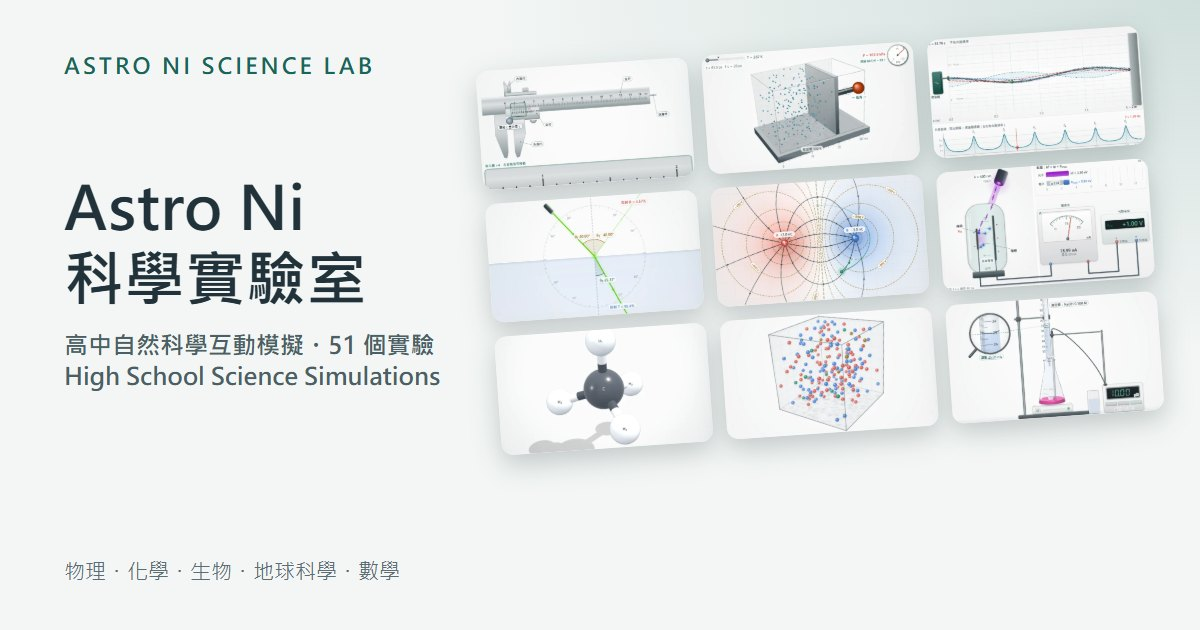
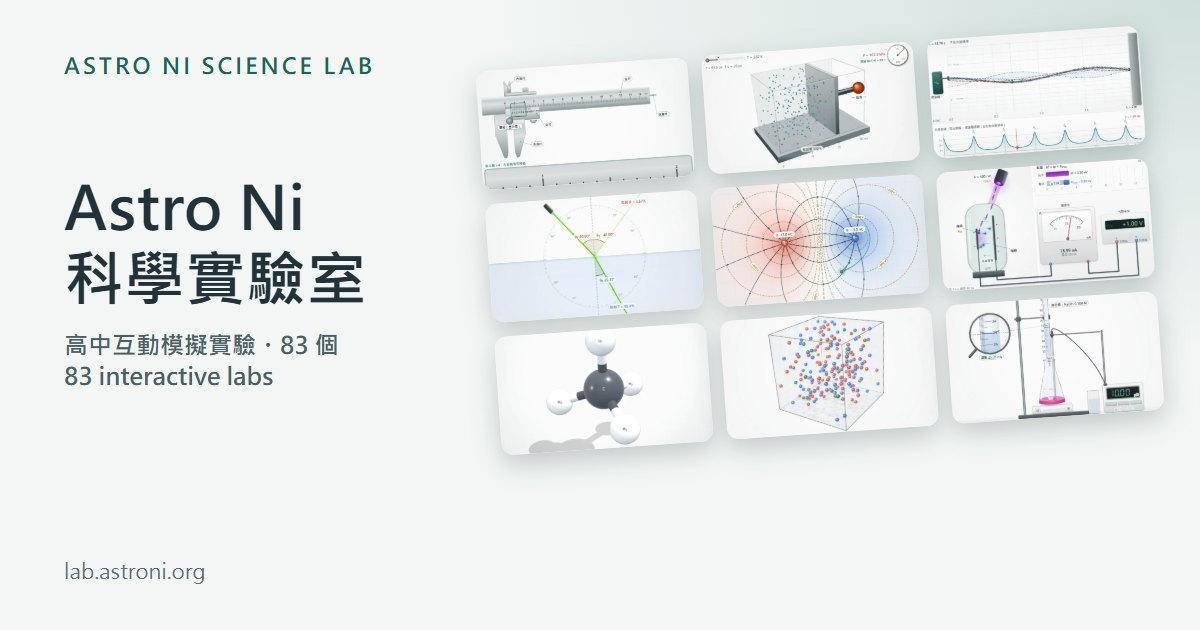
首頁標題改成站名「Astro Ni 科學實驗室」
科目變多，大標題不再列科目；上方小字改「高中互動模擬實驗」，
說明句改「親手驗證課本裡的定律與原理」；分享卡與 og 標題同步。

Changed region(s): [[0.0617, 0.5127, 0.37, 0.6333], [0.2158, 0.8746, 0.3392, 0.9349], [0.0617, 0.8746, 0.185, 0.9349]]

diff --git a/index.html b/index.html
@@ -2,19 +2,19 @@
 <html lang="zh-Hant">
 <head>
   <meta charset="utf-8">
-  <script src="js/settings.js?v=202611131109"></script>
+  <script src="js/settings.js?v=202611131206"></script>
   <meta name="viewport" content="width=device-width,initial-scale=1">
   <title data-en="Astro Ni Science Lab">Astro Ni 科學實驗室</title>
   <!-- SEO-BEGIN（tools/seo.cjs 自動產生，請勿手改） -->
-  <meta name="description" content="高中物理・化學・生物・地球科學・數學的互動模擬實驗室：依課程的分支與章節編排，調整參數、觀察動畫、完成任務收集星星，所有運算都在你的瀏覽器中完成。">
+  <meta name="description" content="給高中生的互動模擬實驗室，涵蓋物理、化學、生物、地球科學、數學、資訊與音樂：依課程的分支與章節編排，調整參數、觀察動畫、完成任務收集星星，所有運算都在你的瀏覽器中完成。">
   <link rel="alternate" hreflang="zh-Hant" href="https://lab.astroni.org/">
   <link rel="alternate" hreflang="zh-Hans" href="https://lab.astroni.org/?lang=zh-Hans">
   <link rel="alternate" hreflang="en" href="https://lab.astroni.org/?lang=en">
   <link rel="alternate" hreflang="x-default" href="https://lab.astroni.org/">
   <meta property="og:type" content="website">
   <meta property="og:site_name" content="Astro Ni 科學實驗室">
-  <meta property="og:title" content="Astro Ni 科學實驗室｜高中物理・化學・生物・地球科學・數學互動模擬">
-  <meta property="og:description" content="高中物理・化學・生物・地球科學・數學的互動模擬實驗室：依課程的分支與章節編排，調整參數、觀察動畫、完成任務收集星星，所有運算都在你的瀏覽器中完成。">
+  <meta property="og:title" content="Astro Ni 科學實驗室｜高中互動模擬實驗">
+  <meta property="og:description" content="給高中生的互動模擬實驗室，涵蓋物理、化學、生物、地球科學、數學、資訊與音樂：依課程的分支與章節編排，調整參數、觀察動畫、完成任務收集星星，所有運算都在你的瀏覽器中完成。">
   <meta property="og:url" content="https://lab.astroni.org/">
   <meta property="og:image" content="https://lab.astroni.org/img/og/index.jpg">
   <meta property="og:image:width" content="1200">
@@ -24,19 +24,20 @@
   <meta property="og:locale:alternate" content="zh_CN">
   <meta property="og:locale:alternate" content="en_US">
   <meta name="twitter:card" content="summary_large_image">
-  <script type="application/ld+json">{"@context":"https://schema.org","@type":"WebSite","name":"Astro Ni 科學實驗室","alternateName":"Astro Ni Science Lab","url":"https://lab.astroni.org/","description":"高中物理・化學・生物・地球科學・數學的互動模擬實驗室：依課程的分支與章節編排，調整參數、觀察動畫、完成任務收集星星，所有運算都在你的瀏覽器中完成。","inLanguage":["zh-Hant","zh-Hans","en"],"license":"https://creativecommons.org/licenses/by-nc/4.0/","author":{"@type":"Person","name":"Astro Ni"},"hasPart":[{"@type":"LearningResource","name":"測量與不確定度（游標尺與螺旋測微器）","alternateName":"Measurement and Uncertainty: Vernier Caliper and Micrometer","url":"https://lab.astroni.org/measurement.html"},{"@type":"LearningResource","name":"自由落體與斜面上的運動","alternateName":"Free Fall and Motion on an Incline","url":"https://lab.astroni.org/free-fall.html"},{"@type":"LearningResource","name":"拋體運動","alternateName":"Projectile Motion","url":"https://lab.astroni.org/projectile.html"},{"@type":"LearningResource","name":"牛頓第二定律（力學車實驗）","alternateName":"Newton's Second Law: The Dynamics Cart","url":"https://lab.astroni.org/newton-second.html"},{"@type":"LearningResource","name":"斜面與摩擦力","alternateName":"Inclines and Friction","url":"https://lab.astroni.org/incline-friction.html"},{"@type":"LearningResource","name":"連體運動與阿特午機","alternateName":"Connected Bodies and the Atwood Machine","url":"https://lab.astroni.org/atwood.html"},{"@type":"LearningResource","name":"電梯中的視重（超重與失重）","alternateName":"Apparent Weight in an Elevator","url":"https://lab.astroni.org/elevator.html"},{"@type":"LearningResource","name":"等速圓周運動","alternateName":"Uniform Circular Motion","url":"https://lab.astroni.org/circular-motion.html"},{"@type":"LearningResource","name":"彈簧振子與單擺","alternateName":"Spring Oscillator and Pendulum","url":"https://lab.astroni.org/oscillation.html"},{"@type":"LearningResource","name":"行星軌道與克卜勒定律","alternateName":"Planetary Orbits and Kepler's Laws","url":"https://lab.astroni.org/kepler.html"},{"@type":"LearningResource","name":"力矩與靜力平衡","alternateName":"Torque and Static Equilibrium","url":"https://lab.astroni.org/torque-balance.html"},{"@type":"LearningResource","name":"角動量守恆","alternateName":"Conservation of Angular Momentum","url":"https://lab.astroni.org/angular-momentum.html"},{"@type":"LearningResource","name":"雲霄飛車與力學能守恆","alternateName":"Roller Coaster and Conservation of Mechanical Energy","url":"https://lab.astroni.org/energy-coaster.html"},{"@type":"LearningResource","name":"一維碰撞","alternateName":"Collisions in One Dimension","url":"https://lab.astroni.org/collision.html"},{"@type":"LearningResource","name":"理想氣體分子模擬","alternateName":"Ideal Gas Molecules","url":"https://lab.astroni.org/ideal-gas.html"},{"@type":"LearningResource","name":"比熱與熱平衡","alternateName":"Specific Heat and Thermal Equilibrium","url":"https://lab.astroni.org/specific-heat.html"},{"@type":"LearningResource","name":"熱機循環與熱力學第一定律","alternateName":"Heat Engines and the First Law of Thermodynamics","url":"https://lab.astroni.org/heat-engine.html"},{"@type":"LearningResource","name":"繩波的反射與駐波","alternateName":"Reflection of Waves on a String and Standing Waves","url":"https://lab.astroni.org/standing-waves.html"},{"@type":"LearningResource","name":"水波槽實驗","alternateName":"Ripple Tank","url":"https://lab.astroni.org/ripple-tank.html"},{"@type":"LearningResource","name":"都卜勒效應","alternateName":"The Doppler Effect","url":"https://lab.astroni.org/doppler.html"},{"@type":"LearningResource","name":"氣柱的共鳴（共鳴管測聲速）","alternateName":"Resonance in an Air Column: Measuring the Speed of Sound","url":"https://lab.astroni.org/resonance-tube.html"},{"@type":"LearningResource","name":"折射與全反射","alternateName":"Refraction and Total Internal Reflection","url":"https://lab.astroni.org/refraction.html"},{"@type":"LearningResource","name":"透鏡與面鏡成像","alternateName":"Images in Lenses and Mirrors","url":"https://lab.astroni.org/lens-mirror.html"},{"@type":"LearningResource","name":"折射率的測定（插針法）","alternateName":"Measuring the Refractive Index (Pin Method)","url":"https://lab.astroni.org/refractive-index.html"},{"@type":"LearningResource","name":"薄透鏡的成像","alternateName":"Thin Lens Imaging","url":"https://lab.astroni.org/thin-lens.html"},{"@type":"LearningResource","name":"雙狹縫干涉與單狹縫繞射","alternateName":"Double-Slit Interference and Single-Slit Diffraction","url":"https://lab.astroni.org/slit-interference.html"},{"@type":"LearningResource","name":"薄膜干涉（肥皂膜、空氣劈與牛頓環）","alternateName":"Thin-Film Interference: Soap Films, Air Wedges and Newton's Rings","url":"https://lab.astroni.org/thin-film.html"},{"@type":"LearningResource","name":"電場與等位線","alternateName":"Electric Fields and Equipotentials","url":"https://lab.astroni.org/electric-field.html"},{"@type":"LearningResource","name":"平行板電容器","alternateName":"Parallel-Plate Capacitor","url":"https://lab.astroni.org/capacitor.html"},{"@type":"LearningResource","name":"等位線與電場（導電紙實驗）","alternateName":"Equipotential Lines and the Electric Field (Conducting Paper)","url":"https://lab.astroni.org/equipotential.html"},{"@type":"LearningResource","name":"電流的磁效應：直導線、線圈與螺線管的磁場","alternateName":"Magnetic Effects of Currents: Wires, Coils and Solenoids","url":"https://lab.astroni.org/current-magnetic-field.html"},{"@type":"LearningResource","name":"帶電粒子在磁場中運動","alternateName":"Charged Particles in a Magnetic Field","url":"https://lab.astroni.org/magnetic-particle.html"},{"@type":"LearningResource","name":"電流天平","alternateName":"Current Balance","url":"https://lab.astroni.org/current-balance.html"},{"@type":"LearningResource","name":"法拉第定律與冷次定律","alternateName":"Faraday's Law and Lenz's Law","url":"https://lab.astroni.org/faraday.html"},{"@type":"LearningResource","name":"認識電磁波（微波實驗）","alternateName":"Meeting Electromagnetic Waves: Microwave Experiments","url":"https://lab.astroni.org/microwave.html"},{"@type":"LearningResource","name":"直流電路","alternateName":"DC Circuits","url":"https://lab.astroni.org/dc-circuit.html"},{"@type":"LearningResource","name":"歐姆定律與電路（電阻的測量）","alternateName":"Ohm’s Law and Circuits: Measuring Resistance","url":"https://lab.astroni.org/ohms-law.html"},{"@type":"LearningResource","name":"光電效應","alternateName":"The Photoelectric Effect","url":"https://lab.astroni.org/photoelectric.html"},{"@type":"LearningResource","name":"電子的荷質比","alternateName":"Charge-to-Mass Ratio of the Electron","url":"https://lab.astroni.org/e-over-m.html"},{"@type":"LearningResource","name":"氫原子能階與光譜","alternateName":"Hydrogen Energy Levels and Spectra","url":"https://lab.astroni.org/hydrogen-spectrum.html"},{"@type":"LearningResource","name":"放射性衰變與半衰期","alternateName":"Radioactive Decay and Half-Life","url":"https://lab.astroni.org/radioactive-decay.html"},{"@type":"LearningResource","name":"分子的形狀：電子對互相推開（VSEPR）","alternateName":"Molecular Shapes: Electron Pairs Push Apart (VSEPR)","url":"https://lab.astroni.org/molecular-shapes.html"},{"@type":"LearningResource","name":"反應速率與碰撞學說","alternateName":"Reaction Rates and Collision Theory","url":"https://lab.astroni.org/reaction-rate.html"},{"@type":"LearningResource","name":"化學平衡與勒沙特列原理","alternateName":"Chemical Equilibrium and Le Chatelier's Principle","url":"https://lab.astroni.org/chemical-equilibrium.html"},{"@type":"LearningResource","name":"酸鹼滴定","alternateName":"Acid–Base Titration","url":"https://lab.astroni.org/acid-base-titration.html"},{"@type":"LearningResource","name":"化學電池與電解","alternateName":"Electrochemical Cells and Electrolysis","url":"https://lab.astroni.org/electrochemistry.html"},{"@type":"LearningResource","name":"擴散與滲透：布朗運動、半透膜與細胞的漲縮","alternateName":"Diffusion and Osmosis: Brownian Motion, Membranes and Cells","url":"https://lab.astroni.org/diffusion-osmosis.html"},{"@type":"LearningResource","name":"孟德爾遺傳：豌豆雜交與卡方檢定","alternateName":"Mendelian Inheritance: Pea Crosses and the Chi-Square Test","url":"https://lab.astroni.org/mendelian-inheritance.html"},{"@type":"LearningResource","name":"神經的動作電位：Hodgkin–Huxley 模型與神經衝動的傳導","alternateName":"The Action Potential: The Hodgkin–Huxley Model and Nerve Conduction","url":"https://lab.astroni.org/action-potential.html"},{"@type":"LearningResource","name":"族群成長：指數、邏輯斯與掠食者–獵物","alternateName":"Population Growth: Exponential, Logistic, Predator and Prey","url":"https://lab.astroni.org/population-growth.html"},{"@type":"LearningResource","name":"哈溫平衡、遺傳漂變與天擇","alternateName":"Hardy–Weinberg, Genetic Drift and Natural Selection","url":"https://lab.astroni.org/hardy-weinberg.html"},{"@type":"LearningResource","name":"月相與日月食","alternateName":"Moon Phases and Eclipses","url":"https://lab.astroni.org/moon-phases.html"},{"@type":"LearningResource","name":"四季與太陽軌跡","alternateName":"Seasons and the Sun's Path","url":"https://lab.astroni.org/seasons.html"},{"@type":"LearningResource","name":"地震波與震央定位","alternateName":"Seismic Waves and Locating an Epicenter","url":"https://lab.astroni.org/earthquake.html"},{"@type":"LearningResource","name":"絕熱冷卻與雲的形成","alternateName":"Adiabatic Cooling and Cloud Formation","url":"https://lab.astroni.org/cloud-formation.html"},{"@type":"LearningResource","name":"科氏力與大氣的運動","alternateName":"The Coriolis Effect and Moving Air","url":"https://lab.astroni.org/coriolis.html"},{"@type":"LearningResource","name":"溫室效應與地球的能量平衡","alternateName":"The Greenhouse Effect and Earth’s Energy Balance","url":"https://lab.astroni.org/greenhouse.html"},{"@type":"LearningResource","name":"潮汐：月球、太陽與兩個潮汐隆起","alternateName":"Tides: The Moon, the Sun and the Two Tidal Bulges","url":"https://lab.astroni.org/tides.html"},{"@type":"LearningResource","name":"三角函數：單位圓與正弦波","alternateName":"Trigonometric Functions: The Unit Circle and Sine Waves","url":"https://lab.astroni.org/trig-functions.html"},{"@type":"LearningResource","name":"圓錐曲線：用平面切圓錐","alternateName":"Conic Sections: Slicing a Cone","url":"https://lab.astroni.org/conic-sections.html"},{"@type":"LearningResource","name":"空間向量：內積、外積與平面","alternateName":"Space Vectors: Dot Product, Cross Product and Planes","url":"https://lab.astroni.org/space-vectors.html"},{"@type":"LearningResource","name":"高爾頓板與二項分布","alternateName":"Galton Board and the Binomial Distribution","url":"https://lab.astroni.org/galton-board.html"},{"@type":"LearningResource","name":"導數與切線","alternateName":"Derivatives and Tangent Lines","url":"https://lab.astroni.org/derivative.html"},{"@type":"LearningResource","name":"二進位與進位制","alternateName":"Binary Numbers and Number Bases","url":"https://lab.astroni.org/binary-numbers.html"},{"@type":"LearningResource","name":"圖片數位化：取樣、解析度與色深","alternateName":"Digitizing Images: Sampling, Resolution and Color Depth","url":"https://lab.astroni.org/image-digitization.html"},{"@type":"LearningResource","name":"資料壓縮：遊程編碼與霍夫曼編碼","alternateName":"Data Compression: Run-Length and Huffman Coding","url":"https://lab.astroni.org/data-compression.html"},{"@type":"LearningResource","name":"線性搜尋與二分搜尋","alternateName":"Linear Search and Binary Search","url":"https://lab.astroni.org/binary-search.html"},{"@type":"LearningResource","name":"排序演算法比較","alternateName":"Sorting Algorithms Compared","url":"https://lab.astroni.org/sorting.html"},{"@type":"LearningResource","name":"最短路徑：Dijkstra 演算法","alternateName":"Shortest Paths: Dijkstra’s Algorithm","url":"https://lab.astroni.org/shortest-path.html"},{"@type":"LearningResource","name":"邏輯閘與加法器","alternateName":"Logic Gates and Adders","url":"https://lab.astroni.org/logic-gates.html"},{"@type":"LearningResource","name":"網路封包與路由","alternateName":"Packets and Routing","url":"https://lab.astroni.org/packet-routing.html"},{"@type":"LearningResource","name":"加密：從凱撒密碼到公鑰","alternateName":"Encryption: From Caesar to Public Keys","url":"https://lab.astroni.org/cryptography.html"},{"@type":"LearningResource","name":"感知器：一條線分兩類","alternateName":"The Perceptron: One Line, Two Classes","url":"https://lab.astroni.org/perceptron.html"},{"@type":"LearningResource","name":"音高與頻率：從振動到音名","alternateName":"Pitch and Frequency: From Vibration to Note Names","url":"https://lab.astroni.org/pitch-frequency.html"},{"@type":"LearningResource","name":"泛音列與音色","alternateName":"The Harmonic Series and Timbre","url":"https://lab.astroni.org/harmonic-series.html"},{"@type":"LearningResource","name":"五度相生、純律與十二平均律","alternateName":"Pythagorean, Just and Equal Temperament","url":"https://lab.astroni.org/temperament.html"},{"@type":"LearningResource","name":"音階與調式","alternateName":"Scales and Modes","url":"https://lab.astroni.org/scales-modes.html"},{"@type":"LearningResource","name":"協和與不協和","alternateName":"Consonance and Dissonance","url":"https://lab.astroni.org/consonance.html"},{"@type":"LearningResource","name":"和弦的頻率比","alternateName":"Chords and Frequency Ratios","url":"https://lab.astroni.org/chords.html"},{"@type":"LearningResource","name":"弦樂器：弦長、張力與品格","alternateName":"String Instruments: Length, Tension and Frets","url":"https://lab.astroni.org/string-instrument.html"},{"@type":"LearningResource","name":"管樂器：直笛、長笛與單簧管","alternateName":"Wind Instruments: Recorder, Flute and Clarinet","url":"https://lab.astroni.org/wind-instrument.html"},{"@type":"LearningResource","name":"鼓與板的振動模態","alternateName":"Vibration Modes of Drums and Plates","url":"https://lab.astroni.org/drum-modes.html"},{"@type":"LearningResource","name":"多重節奏與歐幾里得節奏","alternateName":"Polyrhythms and Euclidean Rhythms","url":"https://lab.astroni.org/polyrhythm.html"}]}</script>
+  <script type="application/ld+json">{"@context":"https://schema.org","@type":"WebSite","name":"Astro Ni 科學實驗室","alternateName":"Astro Ni Science Lab","url":"https://lab.astroni.org/","description":"給高中生的互動模擬實驗室，涵蓋物理、化學、生物、地球科學、數學、資訊與音樂：依課程的分支與章節編排，調整參數、觀察動畫、完成任務收集星星，所有運算都在你的瀏覽器中完成。","inLanguage":["zh-Hant","zh-Hans","en"],"license":"https://creativecommons.org/licenses/by-nc/4.0/","author":{"@type":"Person","name":"Astro Ni"},"hasPart":[{"@type":"LearningResource","name":"測量與不確定度（游標尺與螺旋測微器）","alternateName":"Measurement and Uncertainty: Vernier Caliper and Micrometer","url":"https://lab.astroni.org/measurement.html"},{"@type":"LearningResource","name":"自由落體與斜面上的運動","alternateName":"Free Fall and Motion on an Incline","url":"https://lab.astroni.org/free-fall.html"},{"@type":"LearningResource","name":"拋體運動","alternateName":"Projectile Motion","url":"https://lab.astroni.org/projectile.html"},{"@type":"LearningResource","name":"牛頓第二定律（力學車實驗）","alternateName":"Newton's Second Law: The Dynamics Cart","url":"https://lab.astroni.org/newton-second.html"},{"@type":"LearningResource","name":"斜面與摩擦力","alternateName":"Inclines and Friction","url":"https://lab.astroni.org/incline-friction.html"},{"@type":"LearningResource","name":"連體運動與阿特午機","alternateName":"Connected Bodies and the Atwood Machine","url":"https://lab.astroni.org/atwood.html"},{"@type":"LearningResource","name":"電梯中的視重（超重與失重）","alternateName":"Apparent Weight in an Elevator","url":"https://lab.astroni.org/elevator.html"},{"@type":"LearningResource","name":"等速圓周運動","alternateName":"Uniform Circular Motion","url":"https://lab.astroni.org/circular-motion.html"},{"@type":"LearningResource","name":"彈簧振子與單擺","alternateName":"Spring Oscillator and Pendulum","url":"https://lab.astroni.org/oscillation.html"},{"@type":"LearningResource","name":"行星軌道與克卜勒定律","alternateName":"Planetary Orbits and Kepler's Laws","url":"https://lab.astroni.org/kepler.html"},{"@type":"LearningResource","name":"力矩與靜力平衡","alternateName":"Torque and Static Equilibrium","url":"https://lab.astroni.org/torque-balance.html"},{"@type":"LearningResource","name":"角動量守恆","alternateName":"Conservation of Angular Momentum","url":"https://lab.astroni.org/angular-momentum.html"},{"@type":"LearningResource","name":"雲霄飛車與力學能守恆","alternateName":"Roller Coaster and Conservation of Mechanical Energy","url":"https://lab.astroni.org/energy-coaster.html"},{"@type":"LearningResource","name":"一維碰撞","alternateName":"Collisions in One Dimension","url":"https://lab.astroni.org/collision.html"},{"@type":"LearningResource","name":"理想氣體分子模擬","alternateName":"Ideal Gas Molecules","url":"https://lab.astroni.org/ideal-gas.html"},{"@type":"LearningResource","name":"比熱與熱平衡","alternateName":"Specific Heat and Thermal Equilibrium","url":"https://lab.astroni.org/specific-heat.html"},{"@type":"LearningResource","name":"熱機循環與熱力學第一定律","alternateName":"Heat Engines and the First Law of Thermodynamics","url":"https://lab.astroni.org/heat-engine.html"},{"@type":"LearningResource","name":"繩波的反射與駐波","alternateName":"Reflection of Waves on a String and Standing Waves","url":"https://lab.astroni.org/standing-waves.html"},{"@type":"LearningResource","name":"水波槽實驗","alternateName":"Ripple Tank","url":"https://lab.astroni.org/ripple-tank.html"},{"@type":"LearningResource","name":"都卜勒效應","alternateName":"The Doppler Effect","url":"https://lab.astroni.org/doppler.html"},{"@type":"LearningResource","name":"氣柱的共鳴（共鳴管測聲速）","alternateName":"Resonance in an Air Column: Measuring the Speed of Sound","url":"https://lab.astroni.org/resonance-tube.html"},{"@type":"LearningResource","name":"折射與全反射","alternateName":"Refraction and Total Internal Reflection","url":"https://lab.astroni.org/refraction.html"},{"@type":"LearningResource","name":"透鏡與面鏡成像","alternateName":"Images in Lenses and Mirrors","url":"https://lab.astroni.org/lens-mirror.html"},{"@type":"LearningResource","name":"折射率的測定（插針法）","alternateName":"Measuring the Refractive Index (Pin Method)","url":"https://lab.astroni.org/refractive-index.html"},{"@type":"LearningResource","name":"薄透鏡的成像","alternateName":"Thin Lens Imaging","url":"https://lab.astroni.org/thin-lens.html"},{"@type":"LearningResource","name":"雙狹縫干涉與單狹縫繞射","alternateName":"Double-Slit Interference and Single-Slit Diffraction","url":"https://lab.astroni.org/slit-interference.html"},{"@type":"LearningResource","name":"薄膜干涉（肥皂膜、空氣劈與牛頓環）","alternateName":"Thin-Film Interference: Soap Films, Air Wedges and Newton's Rings","url":"https://lab.astroni.org/thin-film.html"},{"@type":"LearningResource","name":"電場與等位線","alternateName":"Electric Fields and Equipotentials","url":"https://lab.astroni.org/electric-field.html"},{"@type":"LearningResource","name":"平行板電容器","alternateName":"Parallel-Plate Capacitor","url":"https://lab.astroni.org/capacitor.html"},{"@type":"LearningResource","name":"等位線與電場（導電紙實驗）","alternateName":"Equipotential Lines and the Electric Field (Conducting Paper)","url":"https://lab.astroni.org/equipotential.html"},{"@type":"LearningResource","name":"電流的磁效應：直導線、線圈與螺線管的磁場","alternateName":"Magnetic Effects of Currents: Wires, Coils and Solenoids","url":"https://lab.astroni.org/current-magnetic-field.html"},{"@type":"LearningResource","name":"帶電粒子在磁場中運動","alternateName":"Charged Particles in a Magnetic Field","url":"https://lab.astroni.org/magnetic-particle.html"},{"@type":"LearningResource","name":"電流天平","alternateName":"Current Balance","url":"https://lab.astroni.org/current-balance.html"},{"@type":"LearningResource","name":"法拉第定律與冷次定律","alternateName":"Faraday's Law and Lenz's Law","url":"https://lab.astroni.org/faraday.html"},{"@type":"LearningResource","name":"認識電磁波（微波實驗）","alternateName":"Meeting Electromagnetic Waves: Microwave Experiments","url":"https://lab.astroni.org/microwave.html"},{"@type":"LearningResource","name":"直流電路","alternateName":"DC Circuits","url":"https://lab.astroni.org/dc-circuit.html"},{"@type":"LearningResource","name":"歐姆定律與電路（電阻的測量）","alternateName":"Ohm’s Law and Circuits: Measuring Resistance","url":"https://lab.astroni.org/ohms-law.html"},{"@type":"LearningResource","name":"光電效應","alternateName":"The Photoelectric Effect","url":"https://lab.astroni.org/photoelectric.html"},{"@type":"LearningResource","name":"電子的荷質比","alternateName":"Charge-to-Mass Ratio of the Electron","url":"https://lab.astroni.org/e-over-m.html"},{"@type":"LearningResource","name":"氫原子能階與光譜","alternateName":"Hydrogen Energy Levels and Spectra","url":"https://lab.astroni.org/hydrogen-spectrum.html"},{"@type":"LearningResource","name":"放射性衰變與半衰期","alternateName":"Radioactive Decay and Half-Life","url":"https://lab.astroni.org/radioactive-decay.html"},{"@type":"LearningResource","name":"分子的形狀：電子對互相推開（VSEPR）","alternateName":"Molecular Shapes: Electron Pairs Push Apart (VSEPR)","url":"https://lab.astroni.org/molecular-shapes.html"},{"@type":"LearningResource","name":"反應速率與碰撞學說","alternateName":"Reaction Rates and Collision Theory","url":"https://lab.astroni.org/reaction-rate.html"},{"@type":"LearningResource","name":"化學平衡與勒沙特列原理","alternateName":"Chemical Equilibrium and Le Chatelier's Principle","url":"https://lab.astroni.org/chemical-equilibrium.html"},{"@type":"LearningResource","name":"酸鹼滴定","alternateName":"Acid–Base Titration","url":"https://lab.astroni.org/acid-base-titration.html"},{"@type":"LearningResource","name":"化學電池與電解","alternateName":"Electrochemical Cells and Electrolysis","url":"https://lab.astroni.org/electrochemistry.html"},{"@type":"LearningResource","name":"擴散與滲透：布朗運動、半透膜與細胞的漲縮","alternateName":"Diffusion and Osmosis: Brownian Motion, Membranes and Cells","url":"https://lab.astroni.org/diffusion-osmosis.html"},{"@type":"LearningResource","name":"孟德爾遺傳：豌豆雜交與卡方檢定","alternateName":"Mendelian Inheritance: Pea Crosses and the Chi-Square Test","url":"https://lab.astroni.org/mendelian-inheritance.html"},{"@type":"LearningResource","name":"神經的動作電位：Hodgkin–Huxley 模型與神經衝動的傳導","alternateName":"The Action Potential: The Hodgkin–Huxley Model and Nerve Conduction","url":"https://lab.astroni.org/action-potential.html"},{"@type":"LearningResource","name":"族群成長：指數、邏輯斯與掠食者–獵物","alternateName":"Population Growth: Exponential, Logistic, Predator and Prey","url":"https://lab.astroni.org/population-growth.html"},{"@type":"LearningResource","name":"哈溫平衡、遺傳漂變與天擇","alternateName":"Hardy–Weinberg, Genetic Drift and Natural Selection","url":"https://lab.astroni.org/hardy-weinberg.html"},{"@type":"LearningResource","name":"月相與日月食","alternateName":"Moon Phases and Eclipses","url":"https://lab.astroni.org/moon-phases.html"},{"@type":"LearningResource","name":"四季與太陽軌跡","alternateName":"Seasons and the Sun's Path","url":"https://lab.astroni.org/seasons.html"},{"@type":"LearningResource","name":"地震波與震央定位","alternateName":"Seismic Waves and Locating an Epicenter","url":"https://lab.astroni.org/earthquake.html"},{"@type":"LearningResource","name":"絕熱冷卻與雲的形成","alternateName":"Adiabatic Cooling and Cloud Formation","url":"https://lab.astroni.org/cloud-formation.html"},{"@type":"LearningResource","name":"科氏力與大氣的運動","alternateName":"The Coriolis Effect and Moving Air","url":"https://lab.astroni.org/coriolis.html"},{"@type":"LearningResource","name":"溫室效應與地球的能量平衡","alternateName":"The Greenhouse Effect and Earth’s Energy Balance","url":"https://lab.astroni.org/greenhouse.html"},{"@type":"LearningResource","name":"潮汐：月球、太陽與兩個潮汐隆起","alternateName":"Tides: The Moon, the Sun and the Two Tidal Bulges","url":"https://lab.astroni.org/tides.html"},{"@type":"LearningResource","name":"三角函數：單位圓與正弦波","alternateName":"Trigonometric Functions: The Unit Circle and Sine Waves","url":"https://lab.astroni.org/trig-functions.html"},{"@type":"LearningResource","name":"圓錐曲線：用平面切圓錐","alternateName":"Conic Sections: Slicing a Cone","url":"https://lab.astroni.org/conic-sections.html"},{"@type":"LearningResource","name":"空間向量：內積、外積與平面","alternateName":"Space Vectors: Dot Product, Cross Product and Planes","url":"https://lab.astroni.org/space-vectors.html"},{"@type":"LearningResource","name":"高爾頓板與二項分布","alternateName":"Galton Board and the Binomial Distribution","url":"https://lab.astroni.org/galton-board.html"},{"@type":"LearningResource","name":"導數與切線","alternateName":"Derivatives and Tangent Lines","url":"https://lab.astroni.org/derivative.html"},{"@type":"LearningResource","name":"二進位與進位制","alternateName":"Binary Numbers and Number Bases","url":"https://lab.astroni.org/binary-numbers.html"},{"@type":"LearningResource","name":"圖片數位化：取樣、解析度與色深","alternateName":"Digitizing Images: Sampling, Resolution and Color Depth","url":"https://lab.astroni.org/image-digitization.html"},{"@type":"LearningResource","name":"資料壓縮：遊程編碼與霍夫曼編碼","alternateName":"Data Compression: Run-Length and Huffman Coding","url":"https://lab.astroni.org/data-compression.html"},{"@type":"LearningResource","name":"線性搜尋與二分搜尋","alternateName":"Linear Search and Binary Search","url":"https://lab.astroni.org/binary-search.html"},{"@type":"LearningResource","name":"排序演算法比較","alternateName":"Sorting Algorithms Compared","url":"https://lab.astroni.org/sorting.html"},{"@type":"LearningResource","name":"最短路徑：Dijkstra 演算法","alternateName":"Shortest Paths: Dijkstra’s Algorithm","url":"https://lab.astroni.org/shortest-path.html"},{"@type":"LearningResource","name":"邏輯閘與加法器","alternateName":"Logic Gates and Adders","url":"https://lab.astroni.org/logic-gates.html"},{"@type":"LearningResource","name":"網路封包與路由","alternateName":"Packets and Routing","url":"https://lab.astroni.org/packet-routing.html"},{"@type":"LearningResource","name":"加密：從凱撒密碼到公鑰","alternateName":"Encryption: From Caesar to Public Keys","url":"https://lab.astroni.org/cryptography.html"},{"@type":"LearningResource","name":"感知器：一條線分兩類","alternateName":"The Perceptron: One Line, Two Classes","url":"https://lab.astroni.org/perceptron.html"},{"@type":"LearningResource","name":"音高與頻率：從振動到音名","alternateName":"Pitch and Frequency: From Vibration to Note Names","url":"https://lab.astroni.org/pitch-frequency.html"},{"@type":"LearningResource","name":"泛音列與音色","alternateName":"The Harmonic Series and Timbre","url":"https://lab.astroni.org/harmonic-series.html"},{"@type":"LearningResource","name":"五度相生、純律與十二平均律","alternateName":"Pythagorean, Just and Equal Temperament","url":"https://lab.astroni.org/temperament.html"},{"@type":"LearningResource","name":"音階與調式","alternateName":"Scales and Modes","url":"https://lab.astroni.org/scales-modes.html"},{"@type":"LearningResource","name":"協和與不協和","alternateName":"Consonance and Dissonance","url":"https://lab.astroni.org/consonance.html"},{"@type":"LearningResource","name":"和弦的頻率比","alternateName":"Chords and Frequency Ratios","url":"https://lab.astroni.org/chords.html"},{"@type":"LearningResource","name":"弦樂器：弦長、張力與品格","alternateName":"String Instruments: Length, Tension and Frets","url":"https://lab.astroni.org/string-instrument.html"},{"@type":"LearningResource","name":"管樂器：直笛、長笛與單簧管","alternateName":"Wind Instruments: Recorder, Flute and Clarinet","url":"https://lab.astroni.org/wind-instrument.html"},{"@type":"LearningResource","name":"鼓與板的振動模態","alternateName":"Vibration Modes of Drums and Plates","url":"https://lab.astroni.org/drum-modes.html"},{"@type":"LearningResource","name":"多重節奏與歐幾里得節奏","alternateName":"Polyrhythms and Euclidean Rhythms","url":"https://lab.astroni.org/polyrhythm.html"}]}</script>
   <!-- SEO-END -->
 
 
+
   <link rel="stylesheet" href="vendor/katex/katex.min.css">
-  <link rel="stylesheet" href="lab.css?v=202611131109">
+  <link rel="stylesheet" href="lab.css?v=202611131206">
 </head>
 <body data-en-ready>
   <div class="wrap">
     <header class="top">
-      <p class="eyebrow">ASTRO NI SCIENCE LAB</p>
-      <h1 data-en="High School Physics · Chemistry · Biology · Earth Science · Mathematics | Interactive Simulation Lab">高中物理・化學・生物・<span class="nb">地球科學</span>・數學｜<span class="nb">互動模擬實驗室</span></h1>
-      <p data-en="Drag things, turn the knobs, and test the laws of science for yourself. Everything is computed in your browser — no sign-in needed, and no AI service is ever contacted.">拖曳、調整旋鈕，親手驗證自然科學的定律。所有計算都在你的瀏覽器裡完成，不需登入，也不會連線到任何 AI 服務。</p>
+      <p class="eyebrow" data-en="INTERACTIVE SIMULATIONS FOR HIGH SCHOOL">高中互動模擬實驗</p>
+      <h1 data-en="Astro Ni Science Lab">Astro Ni <span class="nb">科學實驗室</span></h1>
+      <p data-en="Drag things, turn the knobs, and test the laws and principles from your textbooks for yourself. Everything is computed in your browser — no sign-in needed, and no AI service is ever contacted.">拖曳、調整旋鈕，親手驗證課本裡的定律與原理。所有計算都在你的瀏覽器裡完成，不需登入，也不會連線到任何 AI 服務。</p>
     </header>
 
     <div class="search" role="search">
@@ -1456,12 +1457,12 @@
 
   <script src="vendor/katex/katex.min.js"></script>
   <script src="vendor/katex/contrib/auto-render.min.js"></script>
-  <script src="js/thumbs.js?v=202611131109"></script>
-  <script src="js/home.js?v=202611131109"></script>
-  <script src="js/search.js?v=202611131109"></script>
-  <script src="js/math.js?v=202611131109"></script>
-  <script src="js/firebase-config.js?v=202611131109"></script>
-  <script src="js/stats.js?v=202611131109" data-summary></script>
-  <script src="js/comments.js?v=202611131109"></script>
+  <script src="js/thumbs.js?v=202611131206"></script>
+  <script src="js/home.js?v=202611131206"></script>
+  <script src="js/search.js?v=202611131206"></script>
+  <script src="js/math.js?v=202611131206"></script>
+  <script src="js/firebase-config.js?v=202611131206"></script>
+  <script src="js/stats.js?v=202611131206" data-summary></script>
+  <script src="js/comments.js?v=202611131206"></script>
 </body>
 </html>
